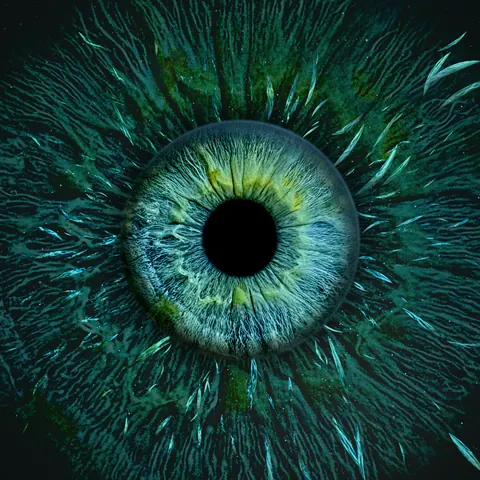
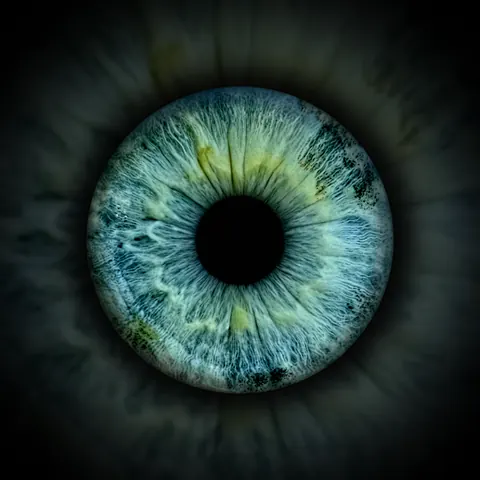
feat(landing): the Universe example pictures drawn again as Lens
By the engine from the same example eyes as before: the gallery tiles
art/universe_{own,yg,br,gr}, the wall chip, the globe's two Universe discs
(make_globe_assets.py's own square and finish) and /try's style tile
(make_style_tiles.py --only universe), copied by build_landing_assets.py.
The provenance says how. Not drawn again: the room mock-ups
m/*__universe__* (their composer and room plates are not on this machine)
and the globe poster (a capture of the built page).

diff --git a/src/landing/assets.ts b/src/landing/assets.ts
@@ -146,18 +146,18 @@ const FILES = {
   'art/supernova1_own_900': ['7a36306b9c', 900, 900, 54648],
   'art/supernova1_yg_480': ['e3afcaa902', 480, 480, 22140],
   'art/supernova1_yg_900': ['91ad4a3a7a', 900, 900, 59364],
-  'art/universe_br_480': ['c0a3bdc0c5', 480, 480, 21062],
-  'art/universe_br_900': ['4d9e318cc7', 900, 900, 62050],
-  'art/universe_gr_480': ['56b6f5f0f7', 480, 480, 40430],
-  'art/universe_gr_900': ['218399fcf9', 900, 900, 99192],
-  'art/universe_own_480': ['5f69789fe8', 480, 480, 45442],
-  'art/universe_own_900': ['fd1caa779a', 900, 900, 116562],
-  'art/universe_yg_480': ['748a742957', 480, 480, 53344],
-  'art/universe_yg_900': ['94ac8eab39', 900, 900, 134782],
+  'art/universe_br_480': ['8d027f66f9', 480, 480, 22666],
+  'art/universe_br_900': ['98ed07a857', 900, 900, 51988],
+  'art/universe_gr_480': ['bc47a4dc12', 480, 480, 14860],
+  'art/universe_gr_900': ['366dc9f5fc', 900, 900, 34368],
+  'art/universe_own_480': ['c8fa717050', 480, 480, 12388],
+  'art/universe_own_900': ['39a7fb6c29', 900, 900, 24762],
+  'art/universe_yg_480': ['6d94ae6523', 480, 480, 11784],
+  'art/universe_yg_900': ['4414966f4b', 900, 900, 24272],
   'art/wallthumb_collision_96': ['78d47392f6', 96, 96, 2108],
   'art/wallthumb_family4_96': ['65aa0dee2d', 96, 96, 1160],
   'art/wallthumb_radiance_96': ['2f397a5cf7', 96, 96, 1638],
-  'art/wallthumb_universe_96': ['cc82f33ca2', 96, 96, 2744],
+  'art/wallthumb_universe_96': ['e77efb7662', 96, 96, 1636],
   'globe/poster_1200': ['b6200dd533', 1200, 1271, 32340],
   'globe/poster_600': ['8a8605542a', 600, 635, 14674],
   'globe/poster_900': ['7e99f340c6', 900, 953, 22648],

diff --git a/src/landing/globe/assets.globe.ts b/src/landing/globe/assets.globe.ts
@@ -95,12 +95,12 @@ const GLOBE_FILES: Readonly<Record<string, readonly [string, number]>> = {
   'supernova_own_160': ['b9a8936114', 2674],
   'supernova_own_240': ['c551242075', 5580],
   'supernova_own_480': ['33f7087076', 24034],
-  'universe_own_160': ['9ee1e50bc4', 4790],
-  'universe_own_240': ['424518e231', 10928],
-  'universe_own_480': ['a952c3e4b0', 45768],
-  'universe_yg_160': ['c144da851c', 5804],
-  'universe_yg_240': ['823f463ae8', 13026],
-  'universe_yg_480': ['b49c9486b2', 53870],
+  'universe_own_160': ['ca88559522', 2686],
+  'universe_own_240': ['1173c07da3', 5326],
+  'universe_own_480': ['40290b662f', 19264],
+  'universe_yg_160': ['470ac38d64', 2614],
+  'universe_yg_240': ['3e32e50a07', 5284],
+  'universe_yg_480': ['f640effd01', 18960],
 };
 
 /** The address of an artwork of the globe at a width (160, 240 or 480 px). */
